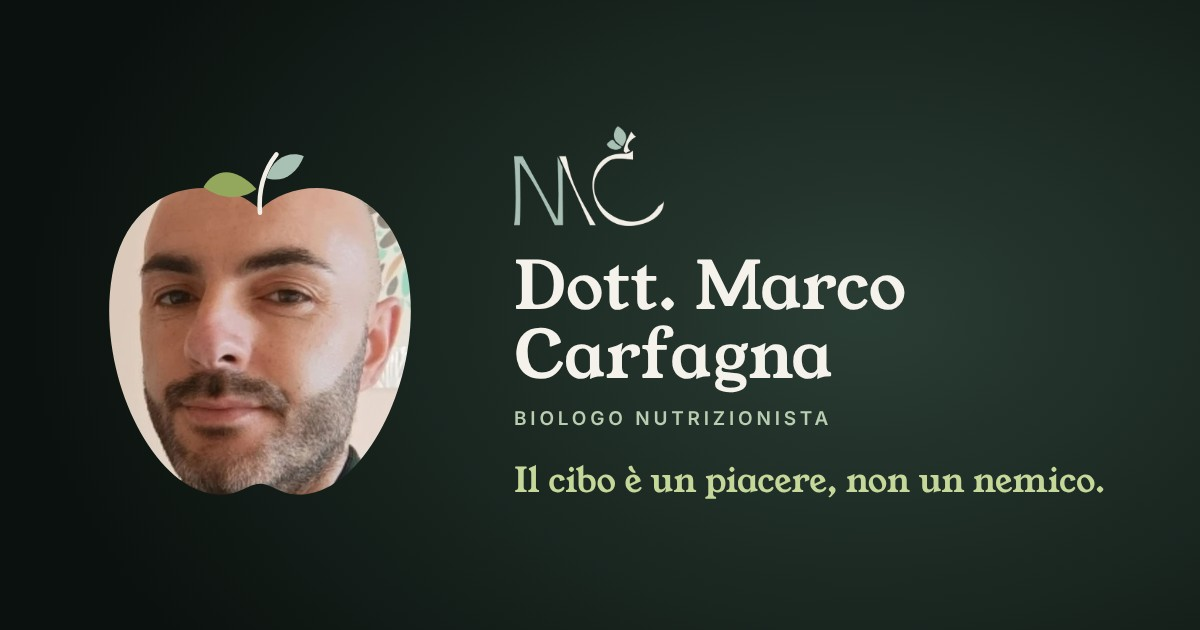
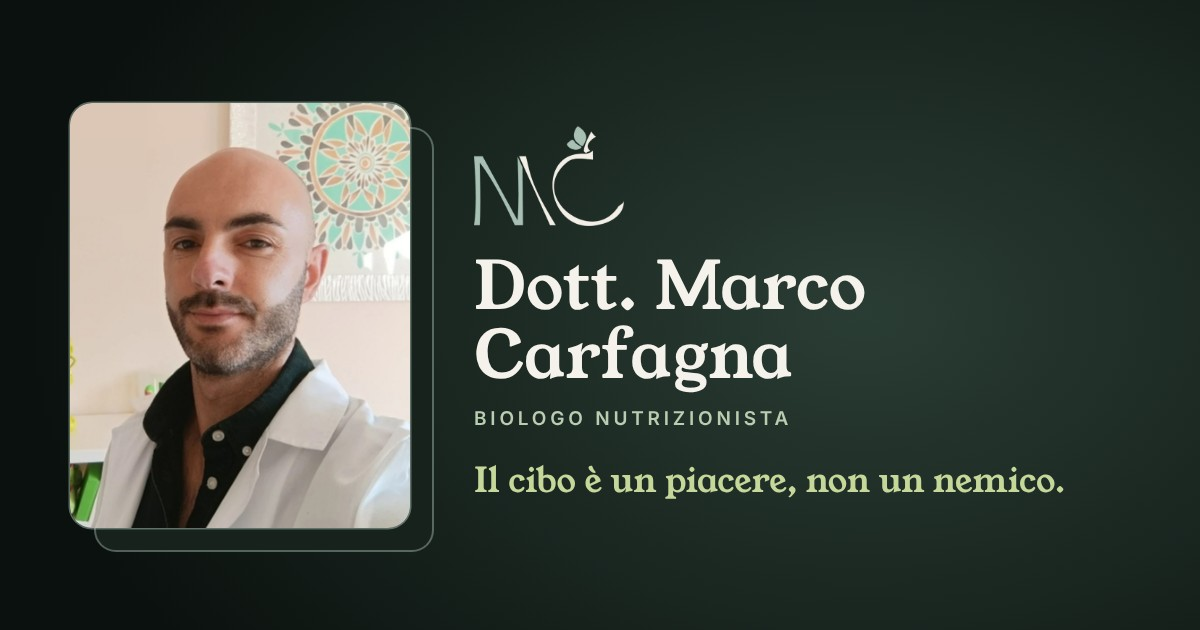
Marco Carfagna: ritratto in cornice professionale al posto della mela
- foto verticale ripulita dal logo stampato, cornice con filetto salvia
  sfalsato e sigillo col monogramma
- immagine per WhatsApp aggiornata con la stessa cornice
- parola che cambia: dissolvenza in sequenza, senza sovrapposizioni

Claude-Session: https://claude.ai/code/session_01GKeRdDzPppMPNVWNFPmxtW

Changed region(s): [[0.0308, 0.1508, 0.7708, 0.8444], [0.4008, 0.7238, 0.925, 0.7841]]

diff --git a/marco-carfagna/css/style.css b/marco-carfagna/css/style.css
@@ -118,22 +118,20 @@ mark.on{background-size:100% 44%}
 .h-anim{animation:heroIn 1.1s var(--ease) both;animation-delay:var(--d,0s)}
 .intro-on .h-anim{animation-play-state:paused}
 @keyframes heroIn{from{opacity:0;transform:translateY(26px)}to{opacity:1;transform:none}}
-.apple{position:relative;width:100%;max-width:480px;justify-self:center}
-.apple svg{width:100%;height:auto;overflow:visible}
-.apple .ap-shadow{fill:rgba(78,99,90,.12)}
-.apple .ap-stem{fill:none;stroke:var(--inchiostro);stroke-width:5;stroke-linecap:round}
-.apple .ap-leaf{fill:var(--salvia);transform-box:fill-box;transform-origin:0% 100%;animation:leafSway 6s ease-in-out infinite}
-.apple .ap-leaf.b{fill:var(--foglia);animation-delay:-2s}
-@keyframes leafSway{0%,100%{transform:rotate(0)}50%{transform:rotate(-7deg)}}
-.apple .ap-ring{fill:none;stroke:var(--salvia);stroke-width:1.5;stroke-dasharray:4 7;opacity:.5}
-.apple-badge{position:absolute;right:2%;bottom:12%;background:#fff;border-radius:14px;padding:12px 16px;box-shadow:0 14px 34px rgba(23,34,29,.14);font-family:var(--ff-ui);font-size:.78rem;color:var(--testo);line-height:1.35}
-.apple-badge strong{display:block;font-family:var(--ff-t);font-weight:400;font-size:1.1rem;color:var(--inchiostro)}
+.portrait{position:relative;width:100%;max-width:420px;justify-self:center;margin:0}
+.portrait::before{content:"";position:absolute;inset:22px -22px -22px 22px;border:1.5px solid var(--salvia);border-radius:24px;opacity:.5}
+.pf{position:relative;border-radius:24px;overflow:hidden;aspect-ratio:4/5;background:var(--crema-2);box-shadow:0 30px 70px rgba(23,34,29,.18)}
+.pf img{width:100%;height:100%;object-fit:cover;object-position:50% 30%}
+.seal{position:absolute;top:-24px;right:-20px;width:98px;height:98px;border-radius:50%;background:#fff;display:grid;place-items:center;box-shadow:0 12px 30px rgba(23,34,29,.14)}
+.seal img{width:64px;height:auto}
+.badge{position:absolute;left:-26px;bottom:38px;background:#fff;border-radius:14px;padding:12px 16px;box-shadow:0 14px 34px rgba(23,34,29,.14);font-family:var(--ff-ui);font-size:.78rem;color:var(--testo);line-height:1.35}
+.badge strong{display:block;font-family:var(--ff-t);font-weight:400;font-size:1.1rem;color:var(--inchiostro)}
 .kicker{font-family:var(--ff-ui);font-size:.74rem;font-weight:600;letter-spacing:.18em;text-transform:uppercase;color:var(--salvia);margin-bottom:20px}
 .hero h1{font-size:clamp(2.5rem,5.2vw,4.3rem);line-height:1.06;margin-bottom:24px;text-wrap:balance}
 .swap{position:relative;display:inline-block;color:var(--salvia)}
 .swap .sizer{visibility:hidden}
-.swap .w{position:absolute;left:0;top:0;opacity:0;transform:translateY(.12em);transition:opacity 1.1s ease, transform 1.1s ease;white-space:nowrap}
-.swap .w.on{opacity:1;transform:none}
+.swap .w{position:absolute;left:0;top:0;opacity:0;transform:translateY(.12em);transition:opacity .6s ease, transform .6s ease;white-space:nowrap}
+.swap .w.on{opacity:1;transform:none;transition-delay:.6s}
 .hero-sub{font-size:1.08rem;max-width:520px;margin-bottom:28px}
 .hero-actions{display:flex;flex-wrap:wrap;gap:12px;margin-bottom:34px}
 /* bilancia gusto / salute */
@@ -147,7 +145,7 @@ mark.on{background-size:100% 44%}
 .balance .bl-pan{fill:var(--crema-2);stroke:var(--salvia);stroke-width:1.5}
 .balance text{font-family:'Young Serif',Georgia,serif;font-size:17px;fill:var(--inchiostro);text-anchor:middle}
 .balance .bl-cap{font-family:Inter,system-ui,sans-serif;font-size:10px;letter-spacing:2px;fill:var(--salvia);text-transform:uppercase}
-@media(max-width:900px){.hero{padding:112px 0 74px}.hero-inner{grid-template-columns:1fr;gap:40px}.apple{max-width:340px;order:-1}}
+@media(max-width:900px){.hero{padding:112px 0 74px}.hero-inner{grid-template-columns:1fr;gap:40px}.portrait{max-width:300px;order:-1}.seal{width:78px;height:78px;right:-10px}.seal img{width:50px}.badge{left:-10px}}
 
 /* ═══ QUIZ A TEMI con la bilancia ═══ */
 .quiz-sec{background:var(--salvia-chiara);overflow:hidden}

diff --git a/marco-carfagna/index.html b/marco-carfagna/index.html
@@ -21,7 +21,7 @@
   <link href="https://fonts.googleapis.com/css2?family=Young+Serif&family=Literata:ital,opsz,wght@0,7..72,400;0,7..72,500;1,7..72,400&family=Inter:wght@400;500;600;700&display=swap" rel="stylesheet" />
   <link rel="canonical" href="https://marco-carfagna.primositolocale.workers.dev/" />
   <meta name="robots" content="index, follow" />
-  <link rel="stylesheet" href="css/style.css?v=3" />
+  <link rel="stylesheet" href="css/style.css?v=5" />
   <script>
   (function () {
     var d = document.documentElement; d.classList.add('js');
@@ -88,18 +88,11 @@
     <!-- APERTURA DEL SITO: ritratto nella mela del logo + bilancia gusto/salute -->
     <section class="hero" id="top">
       <div class="container hero-inner">
-        <div class="apple h-anim" style="--d:.1s">
-          <svg viewBox="0 0 400 460" role="img" aria-label="Il Dott. Marco Carfagna">
-            <defs><clipPath id="appleClip"><path d="M200,114.6 C156.8,72.8 56,80.4 38,186.8 C20,293.2 81.2,418.6 149.6,426.2 C174.8,430 185.6,414.8 200,414.8 C214.4,414.8 225.2,430 250.4,426.2 C318.8,418.6 380,293.2 362,186.8 C344,80.4 243.2,72.8 200,114.6 Z" /></clipPath></defs>
-            <circle class="ap-ring" cx="200" cy="262" r="196" />
-            <ellipse class="ap-shadow" cx="200" cy="446" rx="128" ry="11" />
-            <image href="assets/ritratto.jpg" x="11" y="35" width="420" height="420" preserveAspectRatio="xMidYMid slice" clip-path="url(#appleClip)" />
-            <path class="ap-stem" d="M200 118 C198 94 204 72 218 54" />
-            <path class="ap-leaf" d="M196 92 C172 66 150 70 138 90 C158 104 182 104 196 92 Z" />
-            <path class="ap-leaf b" d="M207 80 C214 58 232 50 248 56 C240 76 224 86 207 80 Z" />
-          </svg>
-          <div class="apple-badge"><strong>4 sedi + online</strong>Roma, Tivoli e Guidonia</div>
-        </div>
+        <figure class="portrait h-anim" style="--d:.1s">
+          <div class="pf"><img src="assets/ritratto.jpg" alt="Il Dott. Marco Carfagna, biologo nutrizionista" width="760" height="950" /></div>
+          <span class="seal" aria-hidden="true"><img src="assets/logo-mc.png" alt="" width="828" height="551" /></span>
+          <figcaption class="badge"><strong>4 sedi + online</strong>Roma, Tivoli e Guidonia</figcaption>
+        </figure>
         <div class="hero-text">
           <p class="kicker h-anim" style="--d:.2s">Biologo nutrizionista · Chinesiologo</p>
           <h1 class="h-anim" style="--d:.32s">Il cibo è un <span class="swap" aria-live="polite"><span class="sizer">piacere,</span><span class="w on">piacere,</span><span class="w">alleato,</span><span class="w">amico,</span></span><br />non un nemico.</h1>

diff --git a/marco-carfagna/privacy.html b/marco-carfagna/privacy.html
@@ -9,7 +9,7 @@
   <title>Privacy e cookie · Dott. Marco Carfagna</title>
   <meta name="robots" content="noindex" />
   <link href="https://fonts.googleapis.com/css2?family=Young+Serif&family=Inter:wght@500;600&family=Literata:opsz,wght@7..72,400;7..72,500&display=swap" rel="stylesheet" />
-  <link rel="stylesheet" href="css/style.css?v=2" />
+  <link rel="stylesheet" href="css/style.css?v=5" />
 </head>
 <body>
   <main class="container legal">
